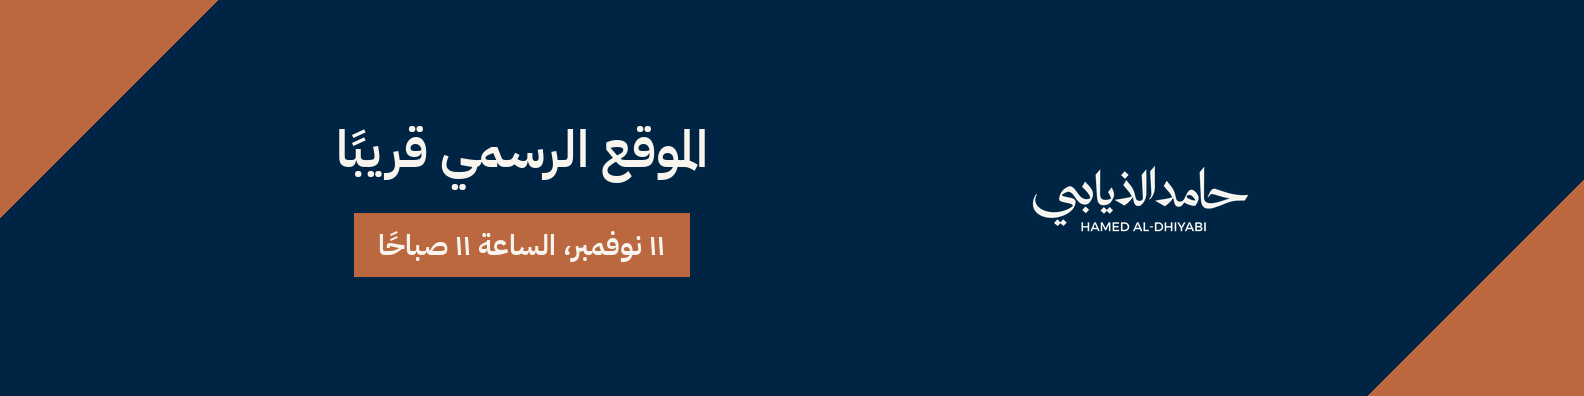
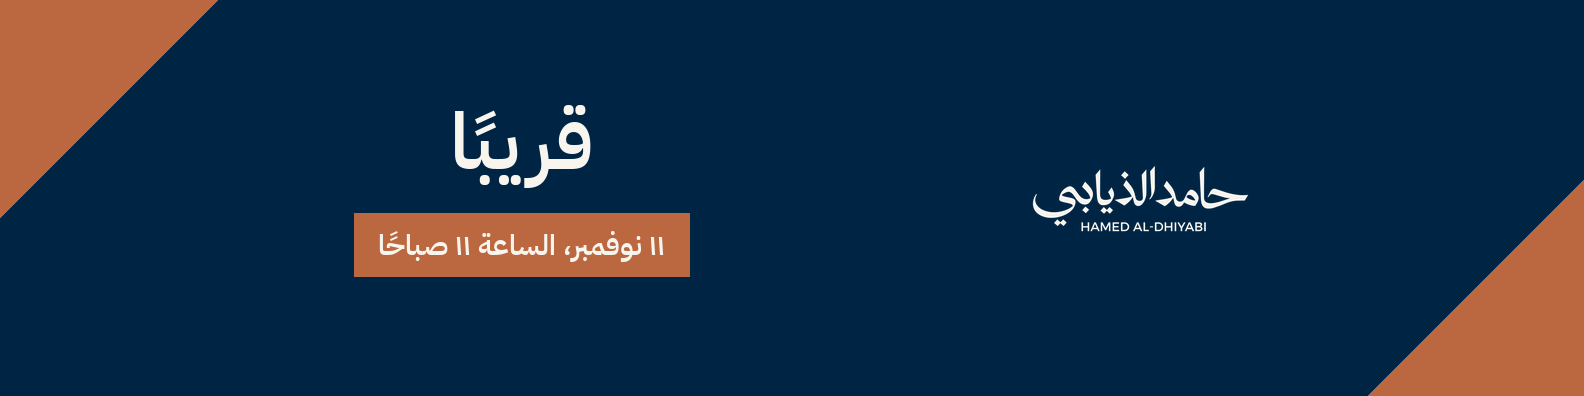
حذف أسئلة الاستدامة وتعديل نصوص التشويق
Claude-Session: https://claude.ai/code/session_01Sk8fvJmXhJXkoMzBST6TBA

Changed region(s): [[0.2165, 0.2727, 0.464, 0.4848]]

diff --git a/agent/tools/launch.py b/agent/tools/launch.py
@@ -20,8 +20,7 @@ def dots(d,cx,y,n=4,c=CORAL):
 # 1) main announcement 1080x1350
 W,H=1080,1350; im,d=base(W,H); logo(im,380,W//2,170)
 dots(d,W//2,400)
-T(d,(W//2,560),'قريبًا',F(600,190))
-T(d,(W//2,730),'الموقع الرسمي لحامد الذيابي',F(600,56))
+T(d,(W//2,600),'قريبًا',F(600,210))
 pill(d,W//2,860,'الأربعاء ١١ نوفمبر، الساعة ١١ صباحًا',F(600,44))
 T(d,(W//2,1010),'استدامة العطاء وأثر يمتد',F(400,44),MUT)
 im.save(O+'01_قريبا.png')
@@ -46,7 +45,7 @@ im.save(O+'03_يوم_الإطلاق.png')
 # 4) headers
 for name,(W2,H2) in [('04_غلاف_اكس',(1500,500)),('05_غلاف_لينكدان',(1584,396))]:
     im,d=base(W2,H2,tri=int(H2*0.55)); lh=logo(im,int(H2*0.55),int(W2*0.72),int(H2*0.5)-int(H2*0.55*218/700)//2)
-    T(d,(int(W2*0.33),int(H2*0.38)),'الموقع الرسمي قريبًا',F(600,int(H2*0.13)))
+    T(d,(int(W2*0.33),int(H2*0.38)),'قريبًا',F(600,int(H2*0.13)))
     pill(d,int(W2*0.33),int(H2*0.62),'١١ نوفمبر، الساعة ١١ صباحًا',F(600,int(H2*0.075)),h=int(H2*0.16),pad=24)
     im.save(O+name+'.png')
 print('ok')

diff --git a/agent/AGENT.md b/agent/AGENT.md
@@ -7,7 +7,7 @@
 - خطة النشر بعد الإطلاق (معتمدة): مستند Claude Docs، المعرّف 5e1c8689-20e5-4fe0-aeaa-90e1456ebad8
   https://claude.ai/code/artifact/5e1c8689-20e5-4fe0-aeaa-90e1456ebad8 — اقرأها كل مرة، فقد تُعدَّل.
 - نصوص إطلاق الهوية: https://claude.ai/code/artifact/a5ee31c1-5315-4598-abdf-8891ed15b912
-- منشورات ما قبل الإطلاق (١٩ أكتوبر – ١١ نوفمبر) جاهزة ومدقّقة في agent/queue.json.
+- منشورات ما قبل الإطلاق (١٩ أكتوبر – ١١ نوفمبر) جاهزة ومدقّقة في agent/queue.json. لا توجد سلسلة «أسئلة الاستدامة» (أُلغيت)، ولا يُذكر «الموقع» في منشورات التشويق قبل ١١ نوفمبر.
 - الموقع: hamedalthiabi.com (الخدمات، المتجر، الإصدارات، التقويم). لا تخترع خدمة أو إصدارًا غير موجود فيه.
 - الأيام والمناسبات: من قائمة تقويم الموقع المعتمدة فقط. المواسم الهجرية بتقويم أم القرى
   (رمضان، عيد الفطر، عشر ذي الحجة والحج، عيد الأضحى، عاشوراء). لا تنشر محتوى موسم خارج وقته.
